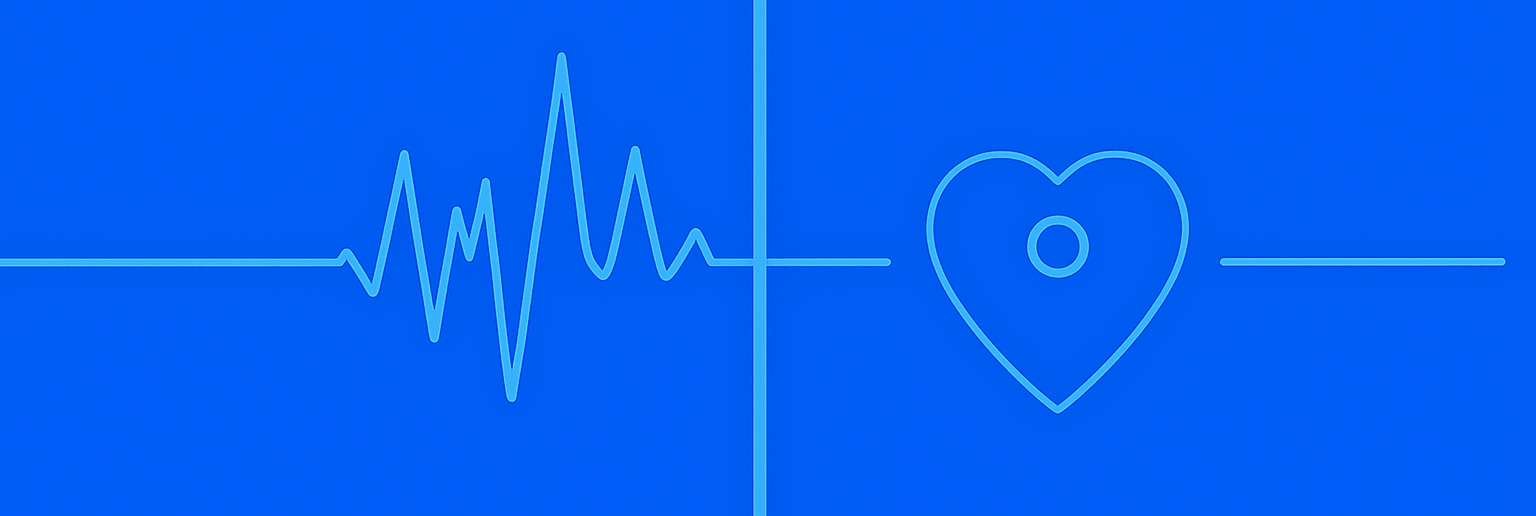
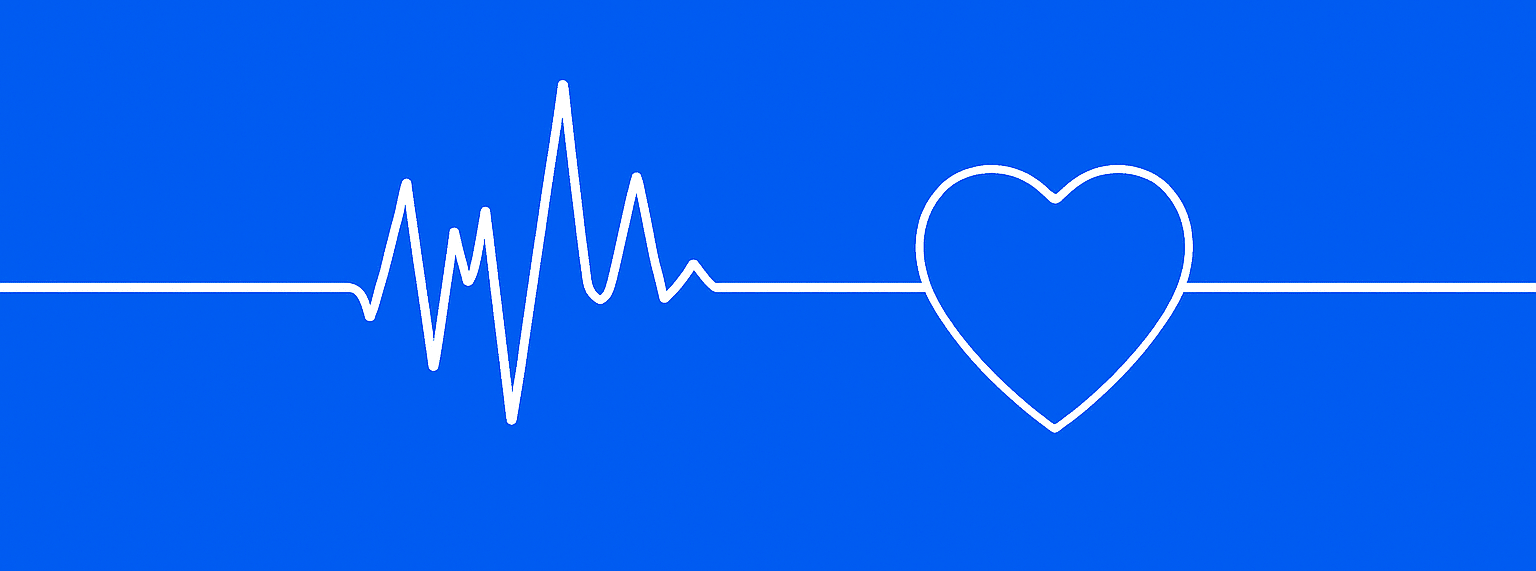
Update site on Aug 13, 2025

Changed region(s): [[0.0, 0.0, 1.0, 1.0], [0.6562, 0.4031, 0.7188, 0.5581]]

diff --git a/en/2025/07/health-check-endpoint-healthz-design-practice/index.html b/en/2025/07/health-check-endpoint-healthz-design-practice/index.html
@@ -39,7 +39,7 @@
                             "@type": "ImageObject",
                             "url": "https:\/\/blog.heylinux.com\/2025\/07\/health-check-endpoint-healthz-design-practice\/featured-image.png",
                             "width":  1536 ,
-                            "height":  516 
+                            "height":  571 
                         }],"genre": "posts","keywords": "Kubernetes","wordcount":  625 ,
         "url": "https:\/\/blog.heylinux.com\/en\/2025\/07\/health-check-endpoint-healthz-design-practice\/","datePublished": "2025-07-18T12:02:05+08:00","dateModified": "2025-07-18T12:02:05+08:00","license": "This work is licensed under a Creative Commons Attribution-NonCommercial 4.0 International License.","publisher": {
             "@type": "Organization",

diff --git a/2025/07/health-check-endpoint-healthz-design-practice/index.html b/2025/07/health-check-endpoint-healthz-design-practice/index.html
@@ -39,7 +39,7 @@
                             "@type": "ImageObject",
                             "url": "https:\/\/blog.heylinux.com\/2025\/07\/health-check-endpoint-healthz-design-practice\/featured-image.png",
                             "width":  1536 ,
-                            "height":  516 
+                            "height":  571 
                         }],"genre": "posts","keywords": "Kubernetes","wordcount":  824 ,
         "url": "https:\/\/blog.heylinux.com\/2025\/07\/health-check-endpoint-healthz-design-practice\/","datePublished": "2025-07-18T12:02:05+08:00","dateModified": "2025-07-18T12:02:05+08:00","license": "This work is licensed under a Creative Commons Attribution-NonCommercial 4.0 International License.","publisher": {
             "@type": "Organization",
